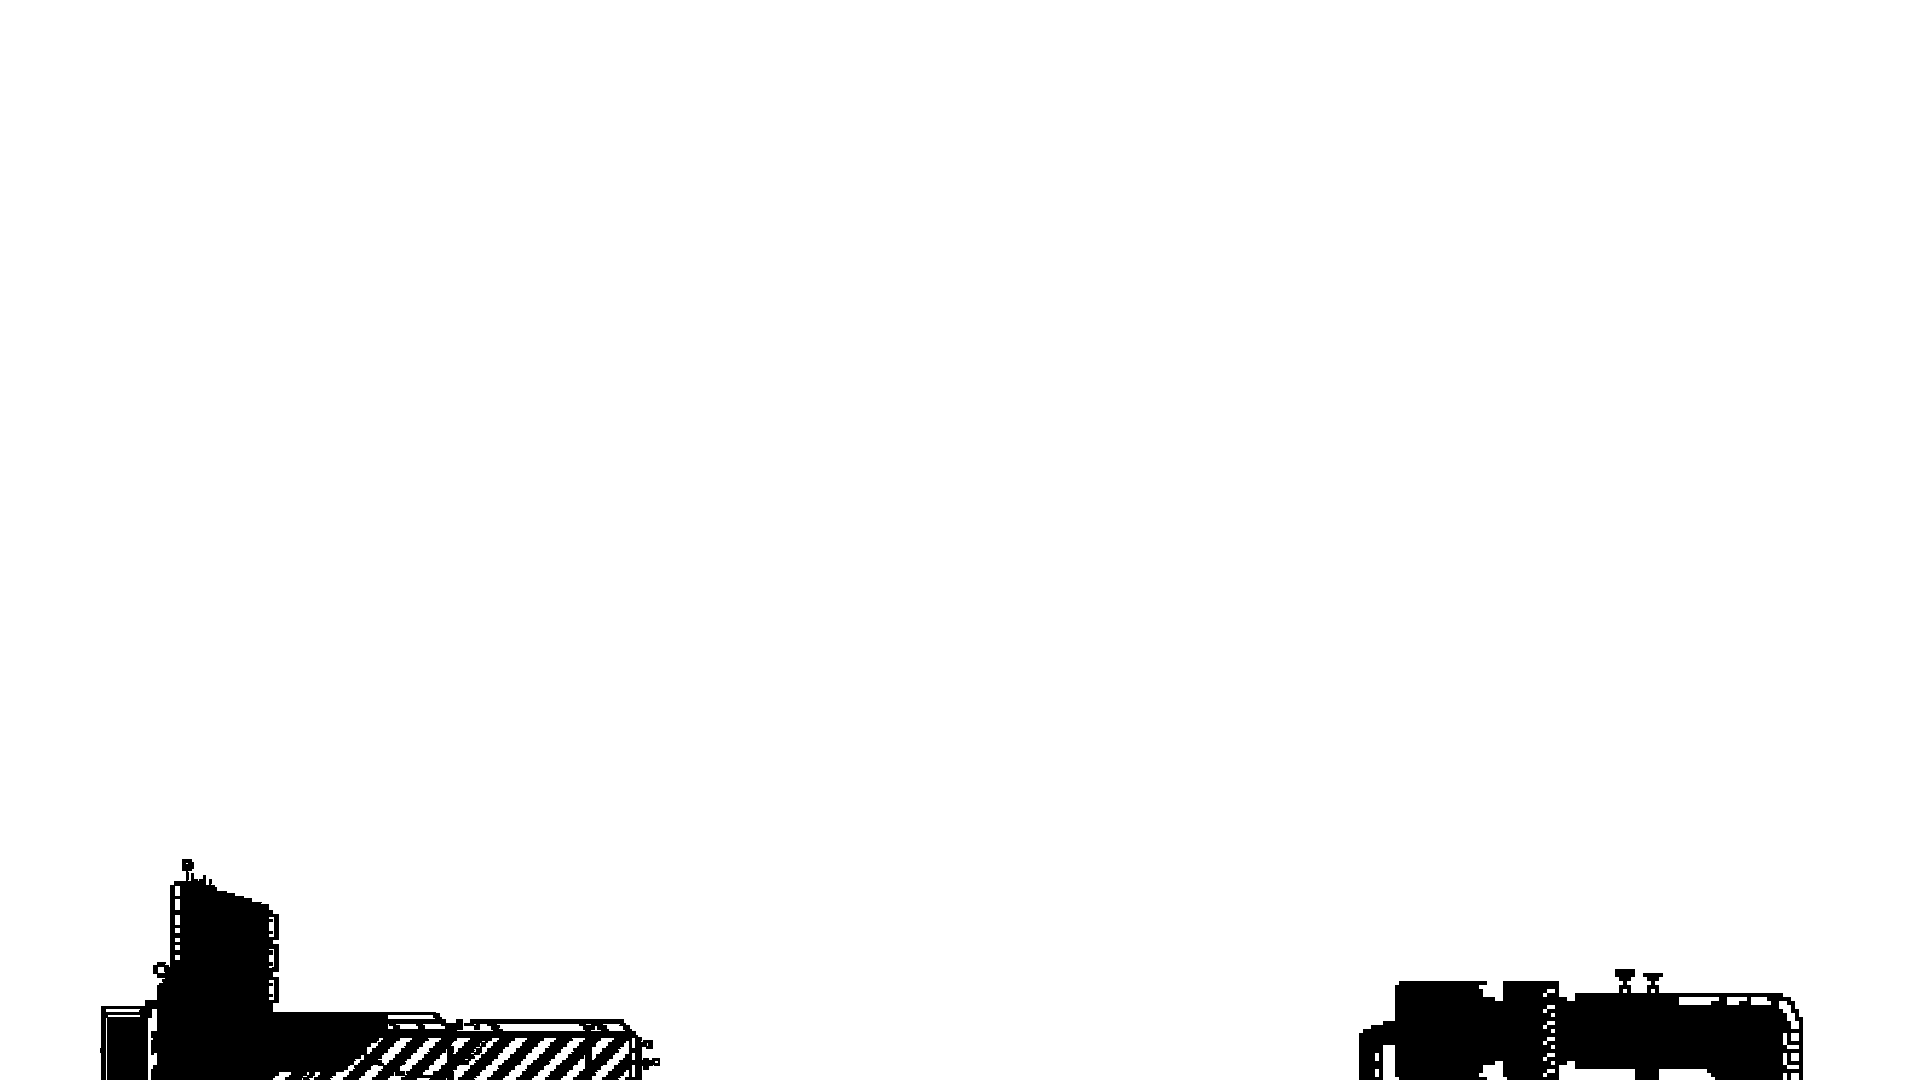
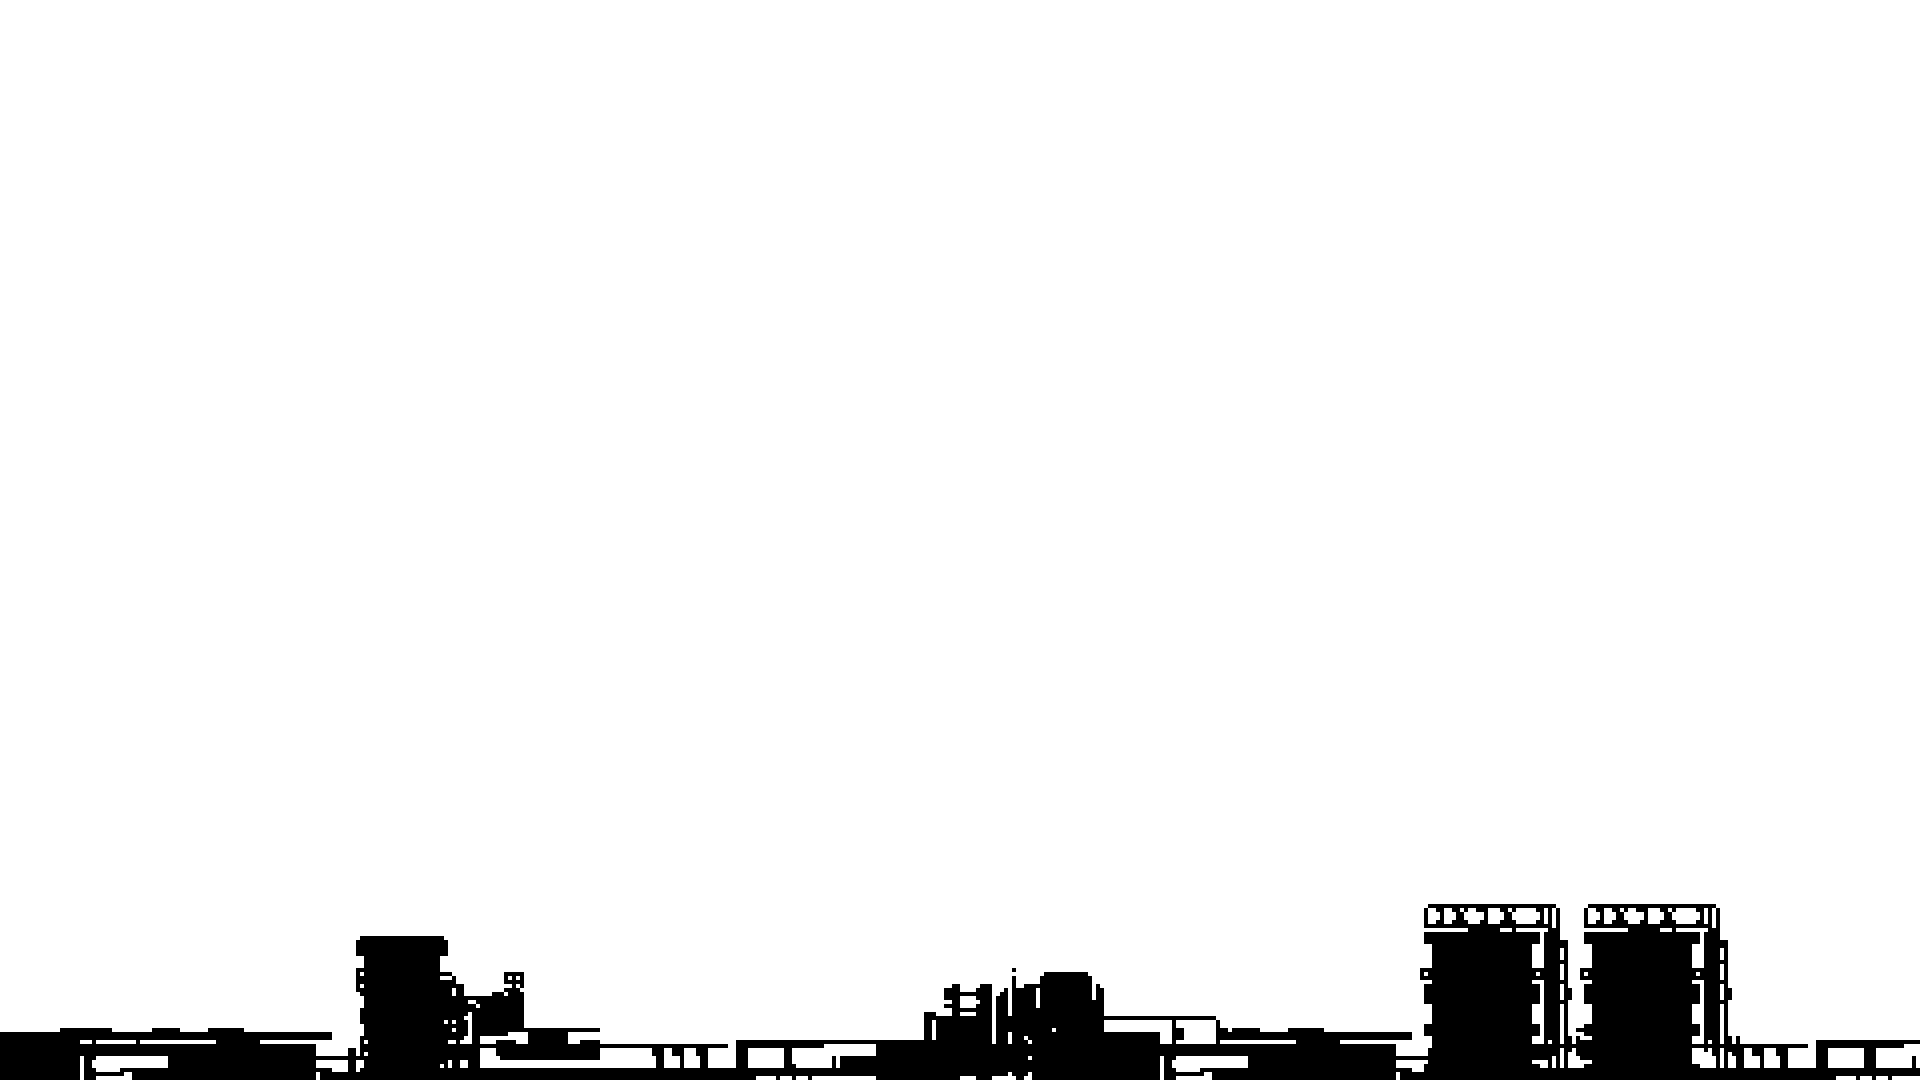
Parallax Vertical Scroll

Changed region(s): [[0.0, 0.7944, 1.0, 1.0]]

diff --git a/Project/ParallaxCameraFlowLayer.cpp b/Project/ParallaxCameraFlowLayer.cpp
@@ -6,6 +6,25 @@
 #include "SpriteComponent.h"
 using namespace base_engine;
 using RC = ResourceContainer;
+
+void CreateRow(int y_count, Game* game, const ActorWeakPtr camera_actor,
+               const ParallaxCameraFlowLayer::CreateInfo& def,
+               Actor* const layer,
+               const std::shared_ptr<Mof::ITexture*> image) {
+  for (int x_count = 0; x_count < 3; ++x_count) {
+    const auto sprite_actor = new Actor(game);
+    layer->AddChild(sprite_actor->GetId());
+    const auto sprite = new SpriteComponent(sprite_actor, def.draw_order);
+    sprite->SetImage(*image);
+    sprite_actor->SetPosition(
+        Vector2{static_cast<float>((*image)->GetWidth()) * (x_count - 1),
+                static_cast<float>((*image)->GetHeight()) * (y_count - 1)});
+    const auto rotation =
+        new HorizontalDynamicImageRotationComponent(sprite_actor);
+    rotation->Create(camera_actor);
+  }
+}
+
 Actor* ParallaxCameraFlowLayer::Create(Game* game, std::string_view name,
                                        const std::span<CreateInfo>& literals) {
   const auto camera_actor = CameraComponent::GetMainCamera().lock()->GetOwner();
@@ -14,21 +33,18 @@ Actor* ParallaxCameraFlowLayer::Create(Game* game, std::string_view name,
   for (const auto& def : literals) {
     const auto layer = new Actor(game);
     const auto parallax = new ParallaxCameraFlowLayerComponent(layer);
-    parallax->Create(camera_actor, def.follow_per_x,def.follow_per_y,def.initial_position);
+    parallax->Create(camera_actor, def.follow_per_x, def.follow_per_y,
+                     def.initial_position);
     parallax_actor->AddChild(layer->GetId());
     const auto image = RC::GetResource<RC::SpriteResourcePack, RC::Sprite>(
         {std::string{name.data()} + std::string{def.literal_name.data()}});
+    if (def.vertical_loop) {
+      CreateRow(0, game, camera_actor, def, layer, image);
+      CreateRow(1, game, camera_actor, def, layer, image);
+      CreateRow(2, game, camera_actor, def, layer, image);
 
-    for (int i = 0; i < 3; ++i) {
-      const auto sprite_actor = new Actor(game);
-      layer->AddChild(sprite_actor->GetId());
-      const auto sprite = new SpriteComponent(sprite_actor, def.draw_order);
-      sprite->SetImage(*image);
-      sprite_actor->SetPosition(
-          Vector2{static_cast<float>((*image)->GetWidth()) * (i - 1), 0});
-      const auto rotation =
-          new HorizontalDynamicImageRotationComponent(sprite_actor);
-      rotation->Create(camera_actor);
+    } else {
+      CreateRow(1, game, camera_actor, def, layer, image);
     }
   }
 

diff --git a/Project/StageSceneFactory.cpp b/Project/StageSceneFactory.cpp
@@ -43,14 +43,12 @@ void StageSceneFactory::Factory() {
         stageActor->GetComponent<tile_map::ObjectTileMapComponent>());
     ComponentServiceLocator::Instance().RegisterInstance(
         stageActor->GetComponent<tile_map::TileMapComponent>());
-    
+
     {
       std::unordered_map<std::string, float> offset = {
-          {"Stage1", 9},
-          {"Stage2", 22},
-          {"Stage3", 9}
-      };
-      const float height = stage->LeftBottom().y - offset[stage_def->second.filename().string()] + 0.02;
+          {"Stage1", 9}, {"Stage2", 22}, {"Stage3", 9}};
+      const float height = stage->LeftBottom().y -
+                           offset[stage_def->second.filename().string()] + 0.02;
       const auto pos = GridPosition::GridTo({0, 1}) * height;
       const auto camera_pos = CameraComponent::GetMainCamera()
                                   .lock()
@@ -59,13 +57,16 @@ void StageSceneFactory::Factory() {
                                   ->GetPosition() +
                               GridPosition::GridTo({0, 2});
       using CreateInfo = ParallaxCameraFlowLayer::CreateInfo;
-      std::array create_def = {CreateInfo{"BG70", 1, 0.2f, 10, camera_pos},
-                               CreateInfo{"BG60", 0.7, 1, 11, camera_pos},
-                               CreateInfo{"BG50", 0, 1, 12, camera_pos},
-                               CreateInfo{"BG40", 0.5, 1, 13, camera_pos},
-                               CreateInfo{"BG30", 0.4, 1, 14, camera_pos},
-                               CreateInfo{"BG20", 0.3, 0, 15, pos},
-                               CreateInfo{"BG10", -0.2, 0, 200, pos}};
+      std::array create_def = {
+          CreateInfo{"BG70", 1, 0.2f, 5, false, camera_pos},
+          CreateInfo{"BG65", 0.7, 1, 10, false, camera_pos},
+          CreateInfo{"BG60", 0.7, 0.7, 15, true, camera_pos},
+          CreateInfo{"BG50", 0, 1, 20, false, camera_pos},
+          CreateInfo{"BG40", 0.5, 0.5, 25, true, camera_pos},
+          CreateInfo{"BG30", 0.4, 1, 30, false, camera_pos},
+          CreateInfo{"BG20", 0.3, 0, 35, false, pos},
+          CreateInfo{"BG10", -0.2, 0, 200, false, pos}
+      };
       //    ParallaxCameraFlowLayer::Create(game_,
       //    stage_def->first.stem().string(),
       //                                    create_def);

diff --git a/Project/ParallaxCameraFlowLayer.h b/Project/ParallaxCameraFlowLayer.h
@@ -6,6 +6,8 @@
 // @details
 
 #pragma once
+#include <Graphics/Texture.h>
+
 #include "Actor.h"
 
 class ParallaxCameraFlowLayer {
@@ -22,7 +24,7 @@ class ParallaxCameraFlowLayer {
     float follow_per_y;
 
     int draw_order;
-
+    bool vertical_loop;
     base_engine::Vector2 initial_position;
   };
 
